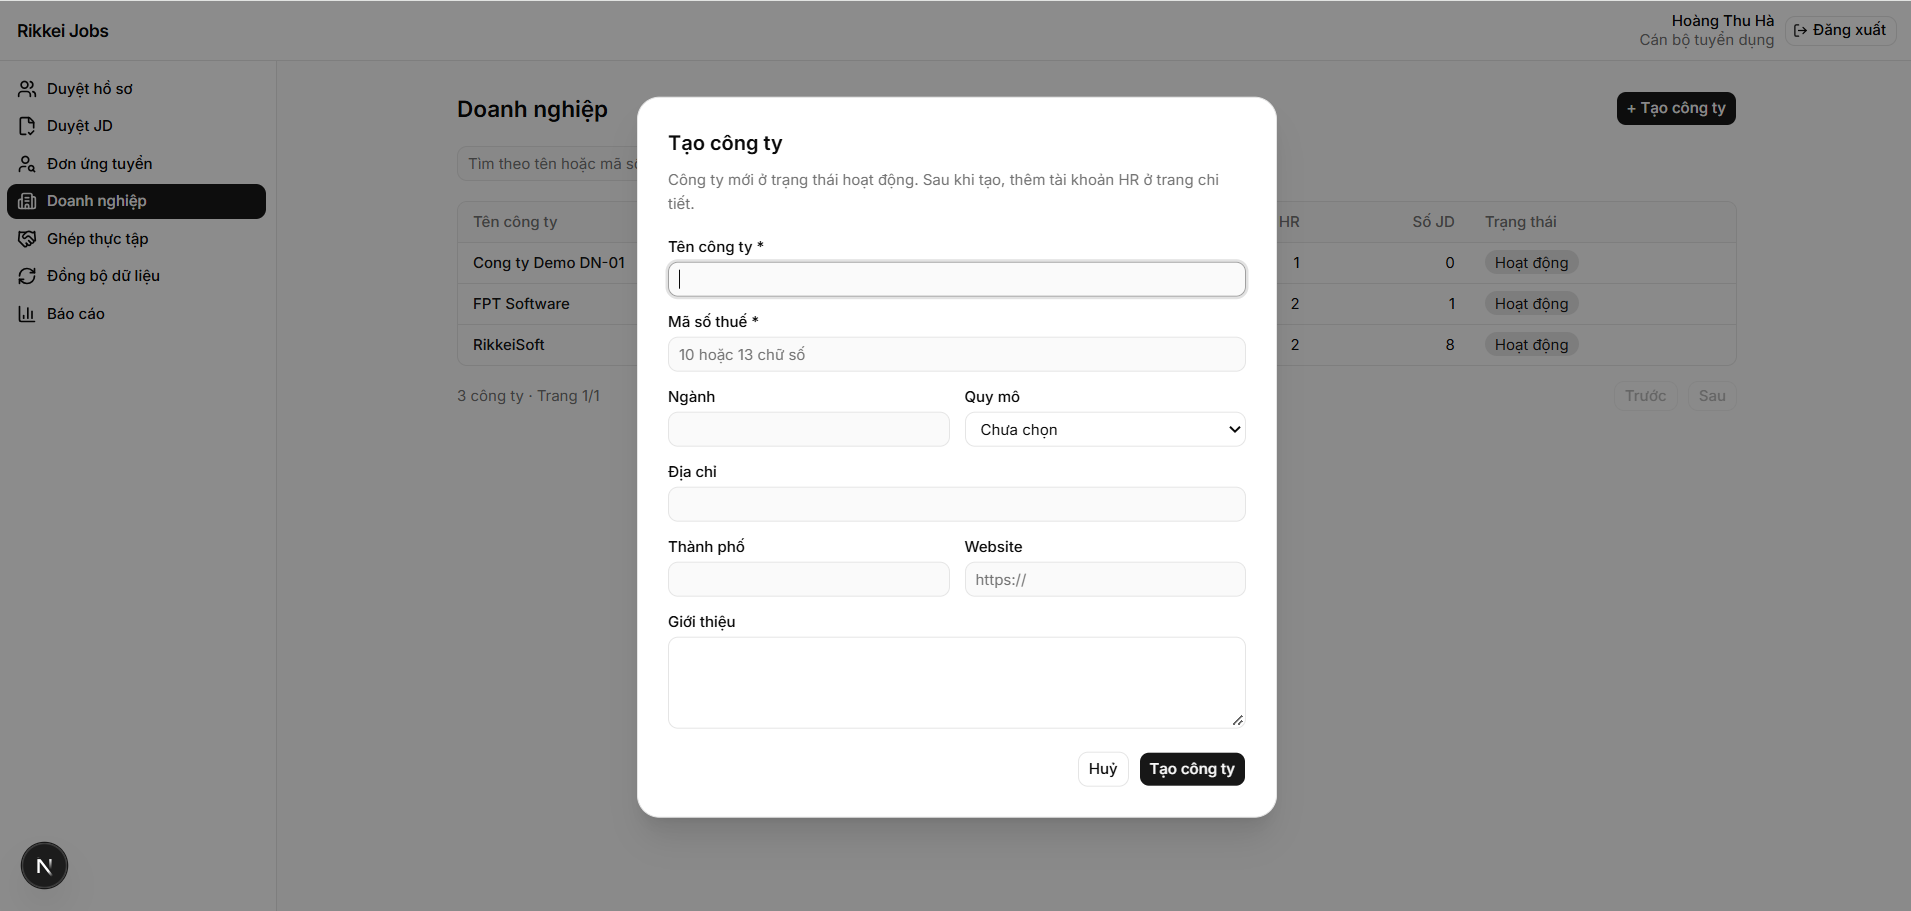
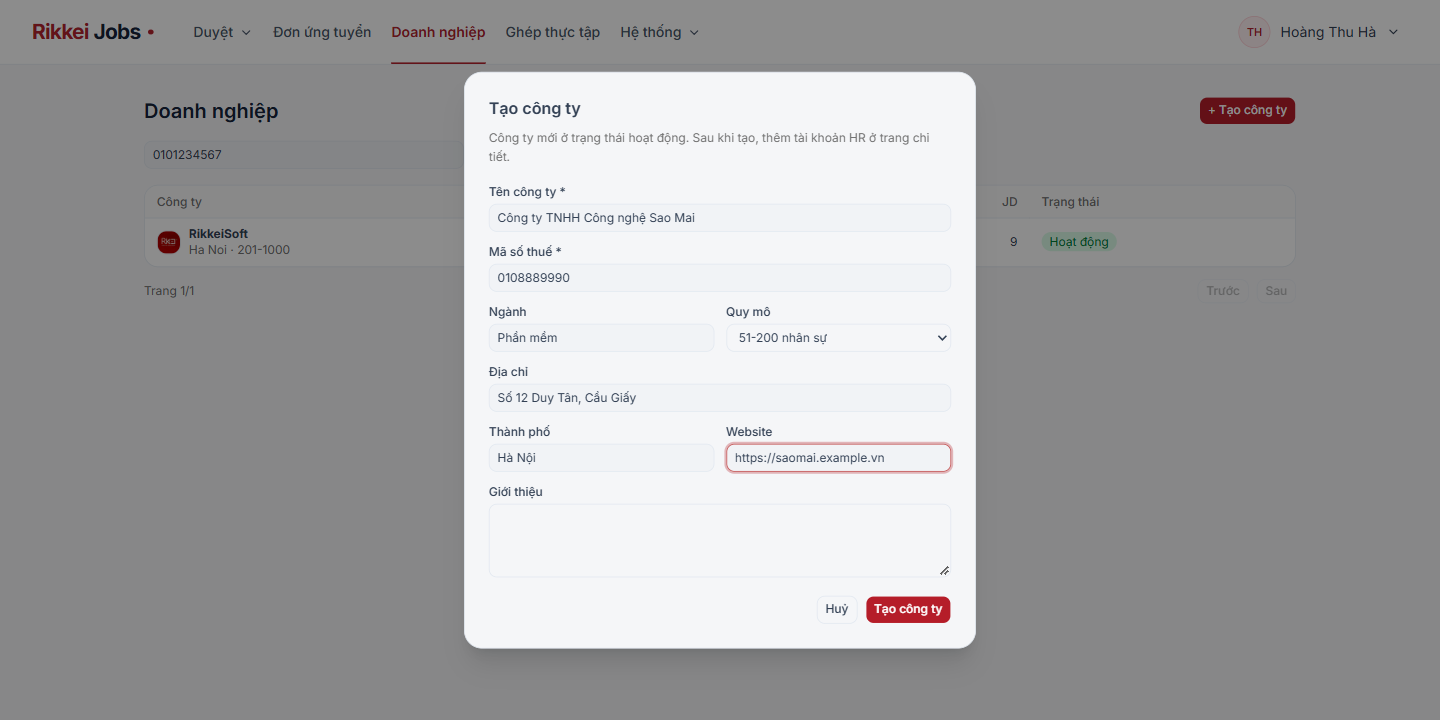
docs(DN-05): retake DN-01, DN-02 and DN-05 screenshots for refreshed ui

diff --git a/docs/api/DN-02-jobs.md b/docs/api/DN-02-jobs.md
@@ -277,16 +277,16 @@ Tên lớp test là các lớp trong `server/services/company-service/src/test` 
 - Người làm task kiểm tra lại trên giao diện với dữ liệu seed (hr1, hr2, candidate1, staff1), đạt: danh sách và lọc theo trạng thái; sửa JD bị trả lại (banner lý do, thanh trượt đổi bậc đúng mốc 40/70/85, chuyển khối, thêm kỹ năng) rồi gửi duyệt; JD chờ duyệt chỉ xem; tạo JD mới loại Thực tập với lỗi hạn nộp quá khứ, lương min > max, số lượng quá lớn; gửi duyệt thiếu kỹ năng bắt buộc bị chặn ở bước 2, bấm gửi hai lần chỉ gửi một lần; candidate1 ứng tuyển JD đang tuyển qua `/candidate/applications/new?jobId=…`, MailHog nhận email cho HR, nộp lại → 409; sửa JD đang tuyển → hộp xác nhận → Chờ duyệt, ứng tuyển lại bị chặn; hr2 mở JD của Công ty A → "Không tìm thấy JD"; cột Số JD ở `/staff/companies` đúng.
 - Chưa thử tay: đóng JD `APPROVED`, công ty `LOCKED` và HR bị khoá; các ca này có test tự động ở mục 8.
 
-**Ảnh minh chứng** (chụp 2026-11-19 khi chạy lại toàn hệ thống; Công ty A đã được đổi tên thành "RikkeiSoft", danh sách có thêm JD tạo trong các lần thử và hai JD mẫu của DN-06):
-
-> Các ảnh dưới đây chụp giao diện **trước khi làm lại** (DN-05 UI refresh); ảnh mới sẽ chụp lại sau lần chạy thật.
+**Ảnh minh chứng** (giao diện sau khi làm lại — DN-05 UI refresh, trong khung HR của hr1; chụp ngày 2026-11-25; Công ty A trên DB dev tên "RikkeiSoft"):
 
 | Ca (mục 8) | Ảnh | Nội dung |
 | --- | --- | --- |
-| 9 | ![Danh sách JD](screenshots/DN-02/list-job.png) | `/hr/jobs`: tab theo trạng thái, nhãn màu Nháp / Chờ duyệt / Đang tuyển / Đã đóng, phân trang "11 JD · Trang 1/1" |
-| 2 | ![Lỗi bước 1](screenshots/DN-02/step1-errors.png) | Tạo JD: lương tối đa nhỏ hơn tối thiểu và hạn nộp ở quá khứ báo lỗi ngay dưới từng ô; nút bước 1 có dấu lỗi |
-| 4 | ![Gửi duyệt thiếu kỹ năng bắt buộc](screenshots/DN-02/submit-no-required-skill.png) | Chỉ có kỹ năng ưu tiên, bấm Gửi duyệt: "Cần ít nhất một kỹ năng bắt buộc", ở lại bước 2 |
-| — | ![Bước kỹ năng](screenshots/DN-02/skills-step.png) | Bước 2 của JD đang tuyển: khối Bắt buộc / Ưu tiên, thanh trượt có mốc 40/70/85 và nhãn "60 · Khá", nút chuyển khối và nút xoá (chỉ mở xem, không lưu) |
-| 5 | ![JD chờ duyệt chỉ xem](screenshots/DN-02/pending-readonly.png) | JD "Chờ duyệt": "JD đang chờ duyệt, không sửa được.", mọi ô bị khoá |
+| 9 | ![Danh sách tin tuyển dụng](screenshots/DN-02/list-job.png) | `/hr/jobs` "Tin tuyển dụng": 6 thẻ số liệu (Tất cả 11, Nháp 2, Chờ duyệt 6, Đang tuyển 2, Bị trả lại 0, Đã đóng 1), dòng phụ dưới tiêu đề ("N kỹ năng bắt buộc" / "Chưa có kỹ năng bắt buộc"), hạn nộp kèm "còn N ngày" / "đã quá hạn". Lúc chụp không có JD đang tuyển nào hết hạn trong 7 ngày và không có JD bị trả lại, nên chưa thấy dòng "N sắp hết hạn" và dòng lý do trả lại (hai trường hợp này có test tự động) |
+| 5 | ![Menu thao tác](screenshots/DN-02/job-row-menu.png) | Menu ⋯ mở trên tin nháp "Middle Java Developer": "Sửa", "Gửi duyệt" |
+| 5 | ![Đóng tin từ menu](screenshots/DN-02/job-close-confirm.png) | Menu ⋯ → "Đóng JD" trên tin đang tuyển JD6: hộp "Đóng JD?" với nút "Đóng JD" màu đỏ (bấm Huỷ sau khi chụp, JD6 vẫn đang tuyển) |
+| 2 | ![Lỗi bước 1](screenshots/DN-02/step1-errors.png) | Tạo tin: lương tối đa nhỏ hơn tối thiểu và hạn nộp ở quá khứ báo lỗi dưới từng ô, bước 1 có dấu "!"; thẻ "Xem trước như ứng viên" bên phải; thanh nút dính đáy |
+| 4 | ![Gửi duyệt thiếu kỹ năng bắt buộc](screenshots/DN-02/submit-no-required-skill.png) | Chỉ có kỹ năng ưu tiên (Git, Docker), bấm Gửi duyệt: "Cần ít nhất một kỹ năng bắt buộc", ở lại bước 2, không gửi request nào |
+| — | ![Bước kỹ năng và xem trước](screenshots/DN-02/skills-step.png) | Bước 2: khối Bắt buộc (Java 70 · Tốt, Spring Boot 85 · Xuất sắc) / Ưu tiên (Git, Docker 40 · Khá), thanh trượt có mốc 40/70/85; thẻ xem trước hiện chip kỹ năng (bắt buộc đỏ, ưu tiên xám) |
+| 5 | ![Tin chờ duyệt chỉ xem](screenshots/DN-02/pending-readonly.png) | Tin "Chờ duyệt": "JD đang chờ duyệt, không sửa được.", mọi ô bị khoá, không có thanh nút |
 
 Hộp xác nhận "Lưu và gửi duyệt lại" (ca 6) không chụp lại; đã kiểm ở lần chạy ngày 18/11/2026 phía trên và có test tự động ở mục 8.

diff --git a/docs/api/DN-05-company-hr-ui.md b/docs/api/DN-05-company-hr-ui.md
@@ -155,19 +155,19 @@ Các lớp test nằm ở `server/services/company-service/src/test` và `server
 - mở khoá hr2 → hr2 đăng nhập lại được;
 - HR sửa hồ sơ, đổi logo (xem trước rồi "Dùng ảnh này"), lưu, "Xem như ứng viên" hiện đúng bản đã lưu.
 
-> Các ảnh dưới đây chụp giao diện **trước khi làm lại** (DN-05 UI refresh); ảnh mới sẽ chụp lại sau lần chạy thật.
-
-**Ảnh minh chứng** (chụp 2026-11-19 khi chạy lại toàn hệ thống; Công ty A đã được đổi tên thành "RikkeiSoft" trên DB dev):
+**Ảnh minh chứng** (giao diện sau khi làm lại — DN-05 UI refresh, chụp ngày 2026-11-25; riêng ảnh đăng nhập bị khoá giữ từ lần chạy 2026-11-17. Công ty A trên DB dev tên "RikkeiSoft"):
 
 | Tiêu chí | Ảnh | Nội dung |
 | --- | --- | --- |
-| 6 | ![Danh sách công ty](screenshots/DN-05/company-list.png) | `/staff/companies`: bảng công ty với mã số thuế, số HR, số JD, trạng thái; nút "+ Tạo công ty" |
-| 6 | ![Tìm theo mã số thuế](screenshots/DN-05/find-company-by-taxID.png) | Tìm `0101234567` ra đúng RikkeiSoft |
-| — | ![Tạo công ty trùng mã số thuế](screenshots/DN-05/create-company-dialog.png) | Hộp "Tạo công ty" báo "Mã số thuế đã tồn tại" ngay trong hộp |
-| 4 | ![Khoá không lý do](screenshots/DN-05/lock-reason-required.png) | Khoá `hr-new1` để trống lý do: "Vui lòng nhập lý do khoá", không gửi request |
-| 1 | ![Khoá thành công](screenshots/DN-05/account-locked-successful.png) | "Đã khoá tài khoản hr-new1@rikkeijobs.test"; dòng HR hiện "Đã khoá", thời điểm và lý do, nút "Mở khoá" |
+| — | ![Thanh ngang cán bộ](screenshots/DN-05/staff-topbar.png) | staff1: thanh ngang, nhóm "Duyệt ▾" đang mở (Duyệt hồ sơ, Duyệt JD), mục "Doanh nghiệp" đang chọn (chữ đỏ, gạch chân) |
+| 6 | ![Danh sách công ty](screenshots/DN-05/company-list.png) | `/staff/companies`: ô tìm + lọc trạng thái + "3 công ty" một hàng; mỗi dòng có logo hoặc chữ cái đầu, dòng phụ "thành phố · quy mô", nhãn "Hoạt động" xanh |
+| 6 | ![Tìm theo mã số thuế](screenshots/DN-05/find-company-by-taxID.png) | Tìm `0101234567` ra đúng RikkeiSoft ("1 công ty") |
+| — | ![Tạo công ty trùng mã số thuế](screenshots/DN-05/create-company-dialog.png) | Hộp "Tạo công ty" nhập mã số thuế `0101234567` đã có: báo "Mã số thuế đã tồn tại" ngay dưới ô, không tạo công ty |
+| 4 | ![Khoá không lý do](screenshots/DN-05/lock-reason-required.png) | Trang chi tiết RikkeiSoft (đầu trang công ty), khoá `hr-new1` để trống lý do: "Vui lòng nhập lý do khoá" |
+| 1 | ![Khoá thành công](screenshots/DN-05/account-locked-successful.png) | "Đã khoá tài khoản `hr-new1@rikkeijobs.test`"; dòng HR "Đã khoá" (đỏ) kèm thời điểm, lý do, nút "Mở khoá"; HR khác "Hoạt động" (xanh). Đã mở khoá lại sau khi chụp |
 | 2 | ![Đăng nhập bị khoá](screenshots/DN-05/login-account-locked.png) | hr-new1 đăng nhập: "Tài khoản đã bị khoá" |
-| 5 | ![Xem như ứng viên](screenshots/DN-05/hr-company-preview.png) | HR xem trang công ty như ứng viên thấy, đúng bản đã lưu (mục việc làm đang tuyển tạm thời luôn 0, theo thiết kế) |
+| 5 | ![Xem như ứng viên](screenshots/DN-05/hr-company-preview.png) | Trang xem trước: đầu trang công ty, Giới thiệu, Thông tin liên hệ, "Việc làm đang tuyển (2)" dạng thẻ với tin thật (JD6, JD7) |
+| 5 | ![Rời trang khi chưa lưu](screenshots/DN-05/hr-company-unsaved-confirm.png) | `/hr/company` đang sửa ô Ngành chưa lưu, bấm "Xem như ứng viên": hộp "Rời trang khi chưa lưu?" ("Ở lại" / "Vẫn xem trước") |
 
 Tiêu chí 3 (mở khoá rồi đăng nhập lại) không chụp lại; đã kiểm ở lần chạy 2026-11-17 phía trên và có test tự động ở mục 6.
 

diff --git a/docs/api/DN-01-company-hr.md b/docs/api/DN-01-company-hr.md
@@ -154,14 +154,14 @@ Tên lớp test ở cột cuối là các lớp trong `server/services/company-s
   - đổi logo thành công; ảnh trên 2MB bị chặn trên giao diện và 4b trả 400 `FILE_TOO_LARGE`;
   - đăng xuất rồi đăng nhập hr2 trong cùng tab thấy Công ty B; API nội bộ: thiếu khoá → 401 (5a), gọi qua gateway → 404 (5b).
 
-**Ảnh minh chứng** (chụp 2026-11-19 khi chạy lại toàn hệ thống; Công ty A đã được đổi tên thành "RikkeiSoft" trên DB dev, mã số thuế vẫn `0101234567`):
+**Ảnh minh chứng** (giao diện sau khi làm lại — DN-05 UI refresh, chụp ngày 2026-11-25; riêng ảnh MailHog giữ từ lần chạy 2026-11-12. Công ty A trên DB dev tên "RikkeiSoft", mã số thuế `0101234567`):
 
 | Tiêu chí | Ảnh | Nội dung |
 | --- | --- | --- |
-| 1 | ![Tạo công ty](screenshots/DN-01/staff-create-company.png) | staff1 mở hộp "Tạo công ty" ở `/staff/companies` (giao diện thêm ở DN-05, gọi `POST /staff/companies` của DN-01) |
-| 1 | ![Thêm HR](screenshots/DN-01/staff-add-hr.png) | staff1 thêm HR `hr-new1@rikkeijobs.test` cho RikkeiSoft |
+| 1 | ![Tạo công ty](screenshots/DN-01/staff-create-company.png) | staff1 ở `/staff/companies` (thanh ngang cán bộ) mở hộp "Tạo công ty" đã điền đủ thông tin, nút "Tạo công ty" đỏ (gọi `POST /staff/companies` của DN-01) |
+| 1 | ![Thêm HR](screenshots/DN-01/staff-add-hr.png) | Trang chi tiết RikkeiSoft (đầu trang công ty có logo, "+ Thêm HR") với hộp "Thêm tài khoản HR" đang điền email và họ tên |
 | 1 | ![Email mật khẩu tạm](screenshots/DN-01/mailhog-temp-password.png) | MailHog nhận email "Tài khoản HR Rikkei Jobs của bạn" có mật khẩu tạm và yêu cầu đổi mật khẩu lần đầu |
-| 3, 4 | ![Sửa hồ sơ công ty](screenshots/DN-01/hr-company-edit.png) | HR mới (sau khi đổi mật khẩu) sửa hồ sơ ở `/hr/company`, xem trước logo mới, báo "Đã lưu lúc 09:02" |
+| 3, 4 | ![Sửa hồ sơ công ty](screenshots/DN-01/hr-company-edit.png) | hr1 ở `/hr/company` trong khung HR: tab "Giới thiệu", chọn logo mới hiện "Hiện tại" / "Ảnh mới" kèm "Dùng ảnh này", thanh lưu báo "Đã lưu lúc 15:29" |
 
 Các ca 409 trùng email, 404 sửa công ty khác và logo quá 2 MB không chụp lại; đã kiểm ở lần chạy 2026-11-12 phía trên và có test tự động ở mục 7.
 
